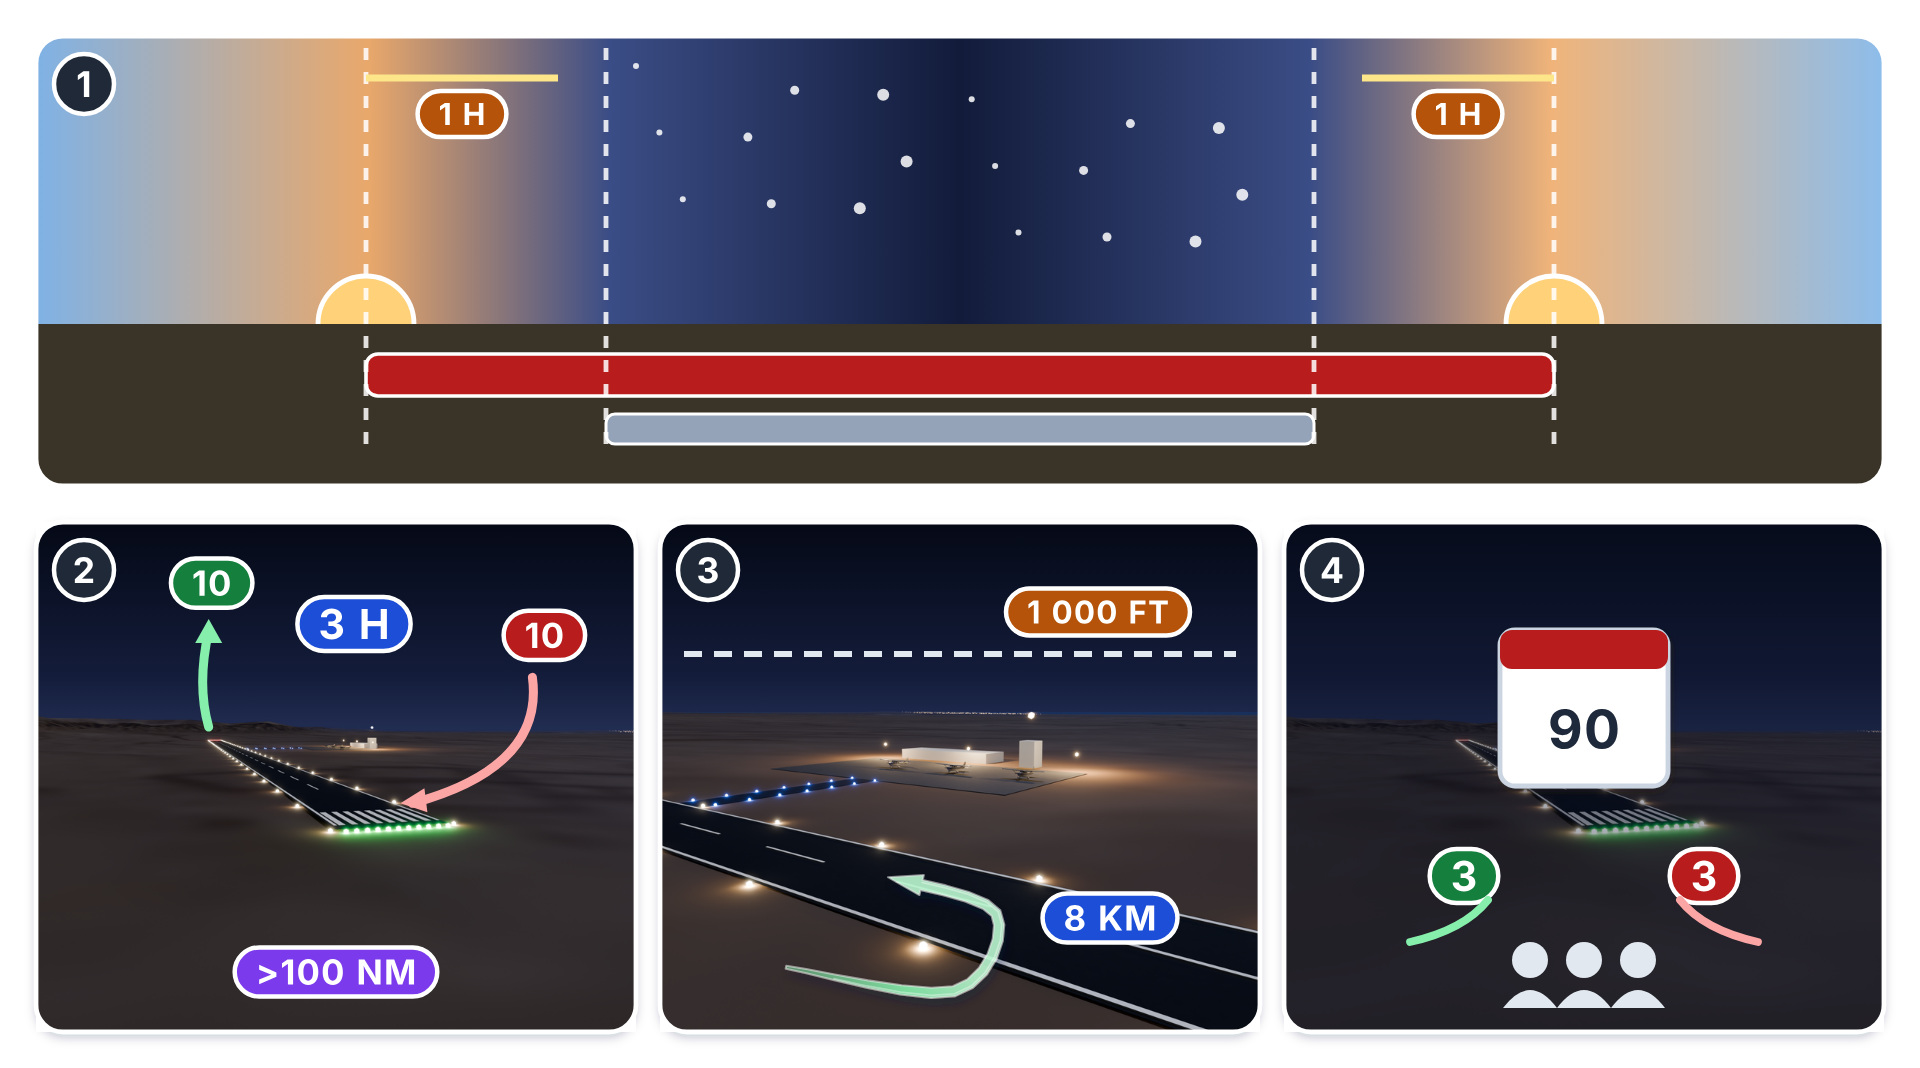
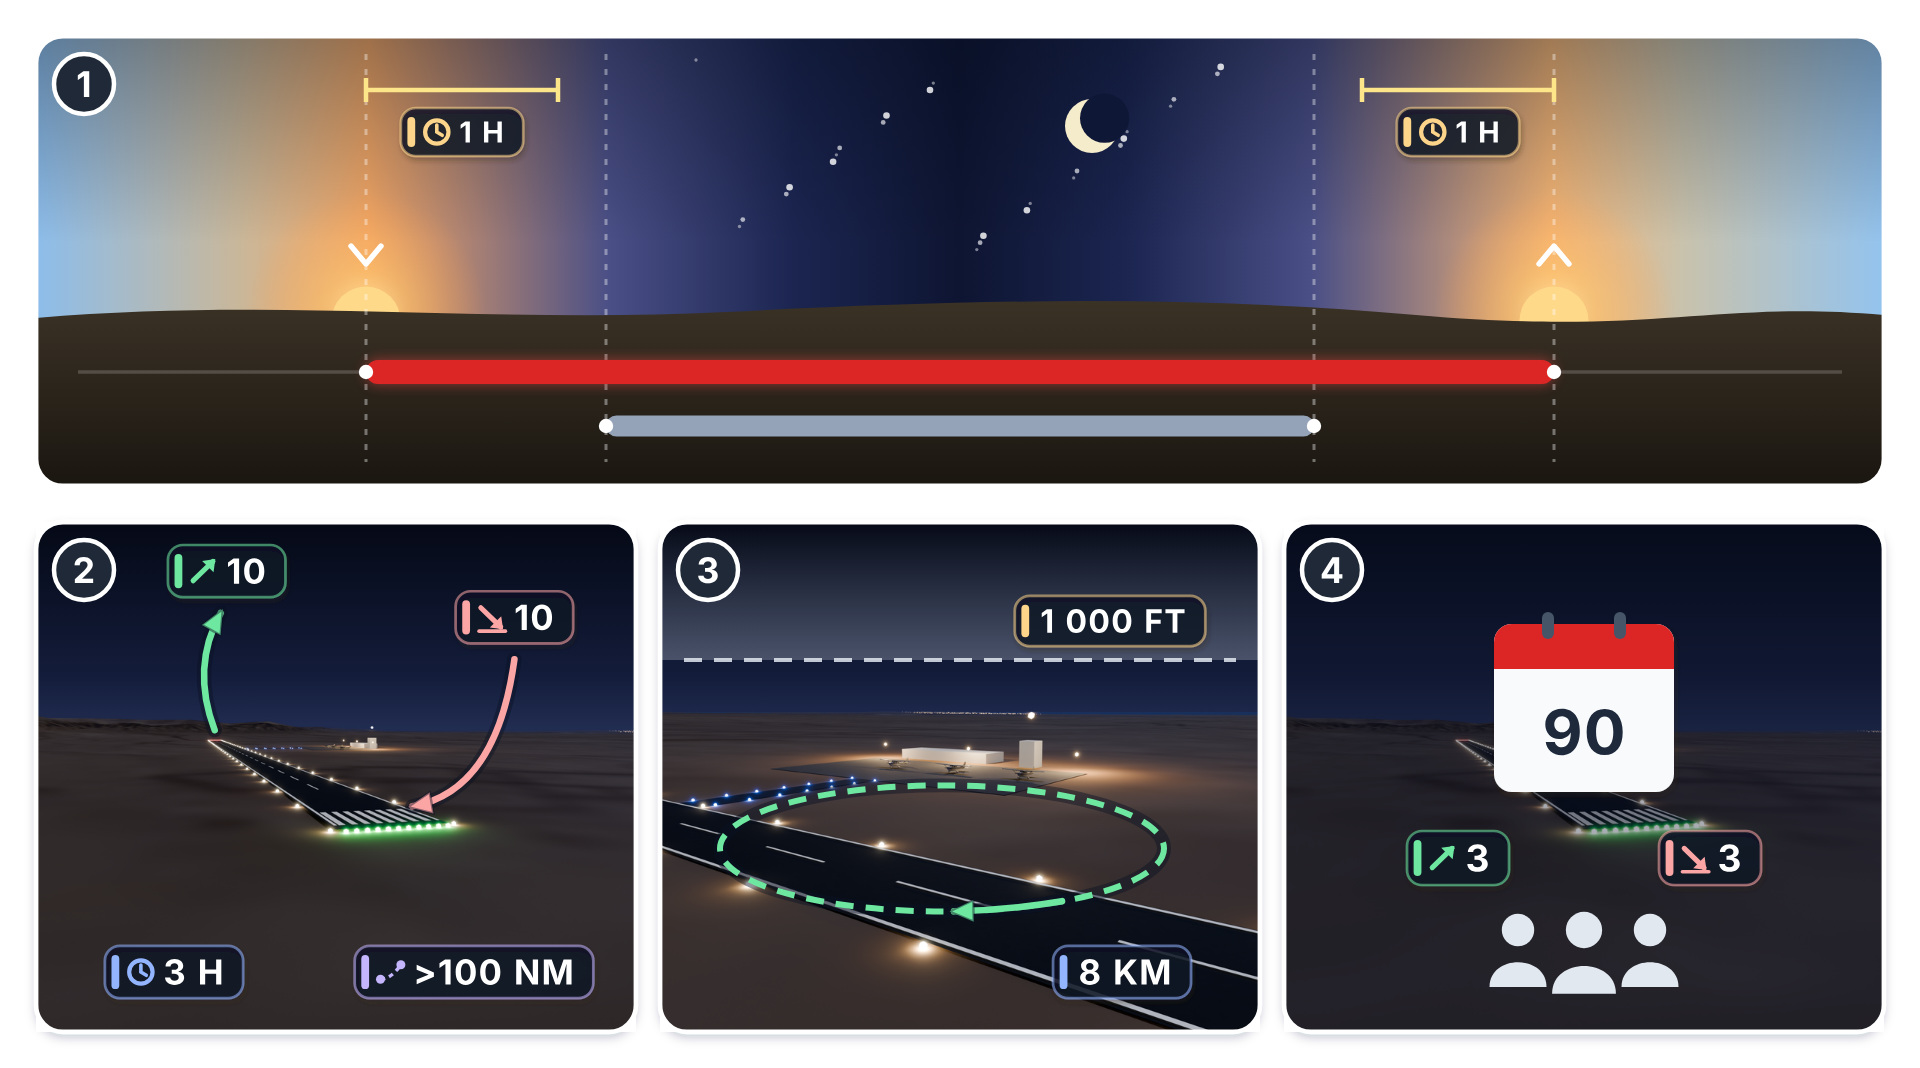
Plate 31-1: new marks (dark glass labels with signs, smooth paths with halos and true arrowheads) and a new day-night strip (the sun setting into dunes and rising, moon and stars, thin time bars, dimension lines for the hours)
Claude-Session: https://claude.ai/code/session_01GaKzbGvzg6oJZTLUkbk9TR

diff --git a/09_book_figures/handbook/figs/f_31_01_night_rule.py b/09_book_figures/handbook/figs/f_31_01_night_rule.py
@@ -26,9 +26,52 @@ def gwidth(s, height, spacing=0.4):
 
 
 def pill(cx, cy, text, fill, size=8.4):
-    w = gwidth(text, size) + 14.0
-    h = size + 8.0
-    return f'<rect x="{n(cx - w / 2)}" y="{n(cy - h / 2)}" width="{n(w)}" height="{n(h)}" rx="{n(h / 2)}" fill="{fill}" stroke="#FFFFFF" stroke-width="1.5"/>' + H.glyph_text(text, cx, cy, size, "#FFFFFF", spacing=0.4)
+    return chip(cx, cy, text, fill, size=size)
+
+
+def icon(kind, x, y, col):
+    """A small sign drawn in a chip, left of its text: up (a takeoff), down (a landing), clock, route."""
+    if kind == "up":
+        return (f'<path d="M{n(x - 3.6)} {n(y + 3.2)} L{n(x + 3.0)} {n(y - 3.2)}" stroke="{col}" stroke-width="1.7" stroke-linecap="round"/>'
+                f'<path d="M{n(x + 3.8)} {n(y - 4.0)} l-4.4 0.6 l3.8 3.8 Z" fill="{col}"/>')
+    if kind == "down":
+        return (f'<path d="M{n(x - 3.6)} {n(y - 3.2)} L{n(x + 3.0)} {n(y + 3.2)}" stroke="{col}" stroke-width="1.7" stroke-linecap="round"/>'
+                f'<path d="M{n(x + 3.8)} {n(y + 4.0)} l-4.4 -0.6 l3.8 -3.8 Z" fill="{col}"/><path d="M{n(x - 4.2)} {n(y + 4.6)} H{n(x + 4.6)}" stroke="{col}" stroke-width="1.2" stroke-linecap="round"/>')
+    if kind == "clock":
+        return (f'<circle cx="{n(x)}" cy="{n(y)}" r="3.9" fill="none" stroke="{col}" stroke-width="1.4"/>'
+                f'<path d="M{n(x)} {n(y - 2.3)} V{n(y)} L{n(x + 1.8)} {n(y + 1.1)}" fill="none" stroke="{col}" stroke-width="1.2" stroke-linecap="round"/>')
+    if kind == "route":
+        return (f'<circle cx="{n(x - 3.4)}" cy="{n(y + 2.4)}" r="1.5" fill="{col}"/><circle cx="{n(x + 3.4)}" cy="{n(y - 2.4)}" r="1.5" fill="{col}"/>'
+                f'<path d="M{n(x - 3.4)} {n(y + 2.4)} Q{n(x)} {n(y + 2.4)} {n(x + 3.4)} {n(y - 2.4)}" fill="none" stroke="{col}" stroke-width="1.1" stroke-dasharray="1.6 1.4"/>')
+    return ""
+
+
+def chip(cx, cy, text, accent, kind=None, size=7.8):
+    """A label of the figure: dark glass, a bar of the colour on its left, a small sign, white figures."""
+    tw = gwidth(text, size)
+    iw = 11.0 if kind else 0.0
+    w, h = tw + 15.0 + iw, size + 9.0
+    x0, y0 = cx - w / 2, cy - h / 2
+    tint = {"#1D4ED8": "#93B4FF", "#15803D": "#6EE7A0", "#B91C1C": "#FCA5A5", "#B45309": "#FCD48A", "#7C3AED": "#C4B5FD"}.get(accent, accent)
+    return (f'<rect x="{n(x0)}" y="{n(y0)}" width="{n(w)}" height="{n(h)}" rx="5" fill="#0B1224" fill-opacity="0.80" stroke="{tint}" stroke-opacity="0.55" stroke-width="0.9"{ds()}/>'
+            f'<rect x="{n(x0 + 2.2)}" y="{n(y0 + 3.0)}" width="2.6" height="{n(h - 6.0)}" rx="1.3" fill="{tint}"/>'
+            + (icon(kind, x0 + 12.0, cy, tint) if kind else "")
+            + H.glyph_text(text, x0 + 8.5 + iw + tw / 2, cy, size, "#FFFFFF", spacing=0.4))
+
+
+def flight(p0, c, p1, col, dash=False, width=2.2):
+    """A path in the air: a smooth curve from p0 to p1 bent towards c, a dark halo under it and an arrowhead along its end."""
+    d = f"M{n(p0[0])} {n(p0[1])} Q{n(c[0])} {n(c[1])} {n(p1[0])} {n(p1[1])}"
+    tx, ty = p1[0] - c[0], p1[1] - c[1]
+    L = math.hypot(tx, ty) or 1.0
+    ux, uy = tx / L, ty / L
+    s = 6.5
+    bx, by = p1[0] - ux * s, p1[1] - uy * s
+    head = f'M{n(p1[0] + ux * 1.5)} {n(p1[1] + uy * 1.5)} L{n(bx - uy * s * 0.55)} {n(by + ux * s * 0.55)} L{n(bx + uy * s * 0.55)} {n(by - ux * s * 0.55)} Z'
+    da = ' stroke-dasharray="5 4"' if dash else ""
+    return (f'<path d="{d}" fill="none" stroke="#0B1224" stroke-opacity="0.45" stroke-width="{n(width + 2.6)}" stroke-linecap="round"/>'
+            f'<path d="{d}" fill="none" stroke="{col}" stroke-width="{n(width)}" stroke-linecap="round"{da}/>'
+            f'<path d="{head}" fill="{col}" stroke="#0B1224" stroke-opacity="0.45" stroke-width="0.8"/>')
 
 
 def ds():
@@ -36,32 +79,55 @@ def ds():
 
 
 def timeline():
+    """Tile 1: from day through the night to day, as a horizon: the sun sets into the dunes and rises out of them, a crescent moon and stars between; under the
+    horizon the time bars (the period of section 91.171 in red, the GACAR's night in slate inside it); above it the hour after sunset and the hour before
+    sunrise as dimension lines."""
     x, y, w, h = 12.0, 12.0, 616.0, 150.0
     uid = f"{U}tl"
     ss, ct, mt, sr = x + 110, x + 190, x + w - 190, x + w - 110   # sunset, end of civil twilight, start of morning twilight, sunrise
-    sky = (f'<defs><linearGradient id="{uid}g" x1="0" y1="0" x2="1" y2="0">'
-           f'<stop offset="0" stop-color="#7FB2E6"/><stop offset="{n((ss - x) / w)}" stop-color="#E9A86B"/><stop offset="{n((ct - x) / w)}" stop-color="#3B4D86"/>'
-           f'<stop offset="0.5" stop-color="#121B3A"/><stop offset="{n((mt - x) / w)}" stop-color="#3B4D86"/><stop offset="{n((sr - x) / w)}" stop-color="#F0B47A"/><stop offset="1" stop-color="#8DBDEB"/></linearGradient>'
-           f'<clipPath id="{uid}c"><rect x="{n(x)}" y="{n(y)}" width="{n(w)}" height="{n(h)}" rx="9"/></clipPath>'
-           f'<filter id="{U}ds" x="-30%" y="-30%" width="160%" height="170%"><feDropShadow dx="0" dy="1.2" stdDeviation="1.3" flood-color="#1B2638" flood-opacity="0.3"/></filter></defs>')
-    gy = y + 96
-    body = f'<rect x="{n(x)}" y="{n(y)}" width="{n(w)}" height="{n(h)}" fill="url(#{uid}g)"/>'
-    body += f'<rect x="{n(x)}" y="{n(gy)}" width="{n(w)}" height="{n(y + h - gy)}" fill="#3A3428" fill-opacity="0.82"/>'
-    for k in range(18):                                   # stars in the dark middle
-        sx = ct + 10 + (k * 37.3) % (mt - ct - 20)
-        sy = y + 10 + (k * 23.7) % 60
-        body += f'<circle cx="{n(sx)}" cy="{n(sy)}" r="{n(1.0 + (k % 3) * 0.5)}" fill="#FFFFFF" fill-opacity="0.85"/>'
-    for cx in (ss, sr):                                   # the sun on the horizon
-        body += f'<circle cx="{n(cx)}" cy="{n(gy)}" r="16" fill="#FFD27A" stroke="#FFFFFF" stroke-width="1.6"/>'
-    body += f'<rect x="{n(x)}" y="{n(gy)}" width="{n(w)}" height="{n(y + h - gy)}" fill="#3A3428"/>'
-    # the bands
-    band = (f'<rect x="{n(ss)}" y="{n(gy + 10)}" width="{n(sr - ss)}" height="14" rx="4" fill="{RED}" stroke="#FFFFFF" stroke-width="1.2"/>'
-            f'<rect x="{n(ct)}" y="{n(gy + 30)}" width="{n(mt - ct)}" height="10" rx="3" fill="#94A3B8" stroke="#FFFFFF" stroke-width="1"/>'
-            + "".join(f'<line x1="{n(xx)}" y1="{n(y + 4)}" x2="{n(xx)}" y2="{n(gy + 44)}" stroke="#FFFFFF" stroke-width="1.6" stroke-dasharray="4 4" stroke-opacity="0.85"/>' for xx in (ss, ct, mt, sr)))
-    # the passenger window, 1 H after sunset to 1 H before sunrise
-    p0, p1 = ss + 64, sr - 64
-    band += f'<path d="M{n(ss)} {n(y + 14)} H{n(p0)} M{n(sr)} {n(y + 14)} H{n(p1)}" stroke="#FDE68A" stroke-width="2.4"/>' + pill((ss + p0) / 2, y + 26, "1 H", AMBER, size=7.4) + pill((sr + p1) / 2, y + 26, "1 H", AMBER, size=7.4)
-    return sky + f'<g clip-path="url(#{uid}c)">' + body + band + f'</g><rect x="{n(x)}" y="{n(y)}" width="{n(w)}" height="{n(h)}" rx="9" fill="none" stroke="#FFFFFF" stroke-width="1.6"/>'
+    f = lambda xx: n((xx - x) / w)
+    defs = (f'<defs><linearGradient id="{uid}g" x1="0" y1="0" x2="1" y2="0">'
+            f'<stop offset="0" stop-color="#8CBDEB"/><stop offset="{f(ss - 40)}" stop-color="#C9B79A"/><stop offset="{f(ss)}" stop-color="#F2A766"/>'
+            f'<stop offset="{f(ct)}" stop-color="#4A4F86"/><stop offset="{f(ct + 60)}" stop-color="#1B2550"/><stop offset="0.5" stop-color="#0E1532"/>'
+            f'<stop offset="{f(mt - 60)}" stop-color="#1B2550"/><stop offset="{f(mt)}" stop-color="#4A4F86"/><stop offset="{f(sr)}" stop-color="#F5B676"/>'
+            f'<stop offset="{f(sr + 40)}" stop-color="#C9C2AC"/><stop offset="1" stop-color="#93C3EE"/></linearGradient>'
+            f'<linearGradient id="{uid}v" x1="0" y1="0" x2="0" y2="1"><stop offset="0" stop-color="#000814" stop-opacity="0.35"/><stop offset="0.75" stop-color="#000814" stop-opacity="0"/></linearGradient>'
+            f'<linearGradient id="{uid}d" x1="0" y1="0" x2="0" y2="1"><stop offset="0" stop-color="#3B3226"/><stop offset="1" stop-color="#1A1610"/></linearGradient>'
+            f'<radialGradient id="{uid}s"><stop offset="0" stop-color="#FFE7A8" stop-opacity="0.95"/><stop offset="0.35" stop-color="#FFC56B" stop-opacity="0.55"/><stop offset="1" stop-color="#FF9E4A" stop-opacity="0"/></radialGradient>'
+            f'<clipPath id="{uid}c"><rect x="{n(x)}" y="{n(y)}" width="{n(w)}" height="{n(h)}" rx="9"/></clipPath>'
+            f'<filter id="{U}ds" x="-30%" y="-30%" width="160%" height="170%"><feDropShadow dx="0" dy="1.0" stdDeviation="1.1" flood-color="#000814" flood-opacity="0.45"/></filter>'
+            f'<filter id="{uid}gl" x="-20%" y="-200%" width="140%" height="500%"><feGaussianBlur stdDeviation="2.2"/></filter></defs>')
+    gy = y + 92
+    body = f'<rect x="{n(x)}" y="{n(y)}" width="{n(w)}" height="{n(h)}" fill="url(#{uid}g)"/><rect x="{n(x)}" y="{n(y)}" width="{n(w)}" height="{n(gy - y)}" fill="url(#{uid}v)"/>'
+    for k in range(26):                                   # stars: small, of several sizes, only where the sky is dark
+        sx = ct + 30 + (k * 47.9) % (mt - ct - 60)
+        sy = y + 8 + (k * 29.3) % 64
+        r = (0.55, 0.8, 1.1)[k % 3]
+        body += f'<circle cx="{n(sx)}" cy="{n(sy)}" r="{n(r)}" fill="#FFFFFF" fill-opacity="{n(0.45 + 0.18 * (k % 3))}"/>'
+    mx, my = x + w / 2 + 44, y + 30                       # a crescent moon
+    body += (f'<circle cx="{n(mx)}" cy="{n(my)}" r="9" fill="#F4ECCB"/><circle cx="{n(mx + 4.2)}" cy="{n(my - 2.6)}" r="8.2" fill="#0F1736"/>')
+    for cx_ in (ss, sr):                                  # the sun on the horizon, in its glow
+        body += f'<circle cx="{n(cx_)}" cy="{n(gy)}" r="40" fill="url(#{uid}s)"/><circle cx="{n(cx_)}" cy="{n(gy + 3)}" r="11.5" fill="#FFD98A"/>'
+    dune = (f'M{n(x)} {n(gy + 2)} C{n(x + 80)} {n(gy - 5)} {n(x + 150)} {n(gy + 4)} {n(x + 230)} {n(gy)} S{n(x + 380)} {n(gy - 6)} {n(x + 460)} {n(gy + 1)} '
+            f'S{n(x + 560)} {n(gy - 4)} {n(x + w)} {n(gy + 1)} V{n(y + h)} H{n(x)} Z')
+    body += f'<path d="{dune}" fill="url(#{uid}d)"/>'
+    for cx_, up in ((ss, False), (sr, True)):             # a chevron over each sun: setting, rising
+        a, b = (gy - 22, gy - 16) if up else (gy - 16, gy - 22)
+        body += f'<path d="M{n(cx_ - 5)} {n(b)} L{n(cx_)} {n(a)} L{n(cx_ + 5)} {n(b)}" fill="none" stroke="#FFFFFF" stroke-width="1.8" stroke-linecap="round" stroke-linejoin="round"/>'
+    guides = "".join(f'<line x1="{n(xx)}" y1="{n(y + 6)}" x2="{n(xx)}" y2="{n(y + h - 8)}" stroke="#FFFFFF" stroke-opacity="0.38" stroke-width="1" stroke-dasharray="2 3"/>' for xx in (ss, ct, mt, sr))
+    ty1, ty2 = gy + 20, gy + 38                           # the time bars, under the horizon
+    bars = (f'<line x1="{n(x + 14)}" y1="{n(ty1)}" x2="{n(x + w - 14)}" y2="{n(ty1)}" stroke="#FFFFFF" stroke-opacity="0.18" stroke-width="1.2"/>'
+            f'<rect x="{n(ss)}" y="{n(ty1 - 4)}" width="{n(sr - ss)}" height="8" rx="4" fill="#EF4444" filter="url(#{uid}gl)" opacity="0.55"/>'
+            f'<rect x="{n(ss)}" y="{n(ty1 - 4)}" width="{n(sr - ss)}" height="8" rx="4" fill="#DC2626"/>'
+            f'<rect x="{n(ct)}" y="{n(ty2 - 3.5)}" width="{n(mt - ct)}" height="7" rx="3.5" fill="#94A3B8"/>'
+            + "".join(f'<circle cx="{n(xx)}" cy="{n(yy)}" r="2.4" fill="#FFFFFF"/>' for xx, yy in ((ss, ty1), (sr, ty1), (ct, ty2), (mt, ty2))))
+    p0, p1 = ss + 64, sr - 64                             # the passenger window, 1 H after sunset to 1 H before sunrise
+    dy = y + 18
+    def dimline(a, b):
+        return (f'<line x1="{n(a)}" y1="{n(dy)}" x2="{n(b)}" y2="{n(dy)}" stroke="#FDE68A" stroke-width="1.5"/>'
+                + "".join(f'<line x1="{n(xx)}" y1="{n(dy - 4)}" x2="{n(xx)}" y2="{n(dy + 4)}" stroke="#FDE68A" stroke-width="1.5"/>' for xx in (a, b)))
+    dims = dimline(ss, p0) + dimline(p1, sr) + chip((ss + p0) / 2, dy + 14, "1 H", AMBER, "clock", size=7.0) + chip((sr + p1) / 2, dy + 14, "1 H", AMBER, "clock", size=7.0)
+    return defs + f'<g clip-path="url(#{uid}c)">' + body + guides + bars + dims + f'</g><rect x="{n(x)}" y="{n(y)}" width="{n(w)}" height="{n(h)}" rx="9" fill="none" stroke="#FFFFFF" stroke-width="1.6"/>'
 
 
 TX = (12.0, 220.0, 428.0)
@@ -103,12 +169,10 @@ def course():
     under, img, frame = render_tile(f"{U}t2", x, "night-31-01-runway")
     a = at("night-31-01-runway", x)
     (tx, ty), (ex, ey) = a("thr"), a("end")
-    o = pill(x + TW / 2 + 6, TY + 34, "3 H", BLUE, size=10)
-    o += (f'<path d="M{n(ex - 2)} {n(ey - 4)} q-4 -14 0 -32" fill="none" stroke="#86EFAC" stroke-width="3" stroke-linecap="round"/>'      # the takeoffs: off the far end, climbing away
-          f'<path d="M{n(ex - 2)} {n(ey - 40)} l-4.5 8 l9 0 Z" fill="#86EFAC"/>' + pill(ex - 1, ey - 52, "10", GREEN))
-    o += (f'<path d="M{n(tx + 46)} {n(ty - 46)} q4 30 -40 42" fill="none" stroke="#FCA5A5" stroke-width="3" stroke-linecap="round"/>'        # the landings: down to the threshold
-          f'<path d="M{n(tx + 2)} {n(ty - 4)} l8 -5 l1 8 Z" fill="#FCA5A5"/>' + pill(tx + 50, ty - 60, "10", RED))
-    o += pill(x + TW / 2, TY + 150, ">100 NM", VIOLET)
+    o = chip(x + 46, TY + 150, "3 H", BLUE, "clock", size=8.4)
+    o += flight((ex, ey - 3), (ex - 8, ey - 24), (ex + 2, ey - 42), "#6EE7A0") + chip(ex + 4, ey - 56, "10", GREEN, "up", size=8.4)     # the takeoffs: off the far end, climbing away
+    o += flight((tx + 40, ty - 52), (tx + 34, ty - 8), (tx + 6, ty - 3), "#FCA5A5") + chip(tx + 40, ty - 66, "10", RED, "down", size=8.4)  # the landings: down to the threshold
+    o += chip(x + TW - 54, TY + 150, ">100 NM", VIOLET, "route", size=8.4)
     return [under, img, o + frame]
 
 
@@ -117,10 +181,16 @@ def exercise():
     x = TX[1]
     under, img, frame = render_tile(f"{U}t3", x, "night-31-01-tower")
     mx, my = x + TW * 0.36, TY + TH * 0.72                  # on the runway in the front of the view
-    cl = TY + 44                                           # the ceiling
-    o = f'<line x1="{n(x + 8)}" y1="{n(cl)}" x2="{n(x + TW - 8)}" y2="{n(cl)}" stroke="#E2E8F0" stroke-width="2" stroke-dasharray="6 4"/>' + pill(x + TW - 54, cl - 14, "1 000 FT", AMBER, size=7.6)
-    o += pill(x + TW - 50, TY + 132, "8 KM", BLUE)
-    o += S.ribbon(f"{U}lp", [(mx - 30, my + 26), (mx + 26, my + 34), (mx + 40, my + 8), (mx + 4, my - 4)], 3.4, "#86EFAC", "#BBF7D0", opacity=0.9, head=2.0, tail=0.3, per=6)
+    cl = TY + 46                                           # the ceiling: a layer of cloud above, its base dashed
+    o = (f'<defs><linearGradient id="{U}cl" x1="0" y1="0" x2="0" y2="1"><stop offset="0" stop-color="#CBD5E1" stop-opacity="0.0"/><stop offset="1" stop-color="#CBD5E1" stop-opacity="0.30"/></linearGradient></defs>'
+         f'<rect x="{n(x)}" y="{n(TY)}" width="{n(TW)}" height="{n(cl - TY)}" fill="url(#{U}cl)"/>'
+         f'<line x1="{n(x + 8)}" y1="{n(cl)}" x2="{n(x + TW - 8)}" y2="{n(cl)}" stroke="#E2E8F0" stroke-opacity="0.85" stroke-width="1.4" stroke-dasharray="6 4"/>')
+    o += chip(x + TW - 50, cl - 13, "1 000 FT", AMBER, size=7.8)
+    cx_, cy_ = x + TW * 0.47, TY + TH * 0.64              # a local flight: round the aerodrome and back to it, dashed
+    o += (f'<ellipse cx="{n(cx_)}" cy="{n(cy_)}" rx="74" ry="21" fill="none" stroke="#0B1224" stroke-opacity="0.45" stroke-width="4.6"/>'
+          f'<ellipse cx="{n(cx_)}" cy="{n(cy_)}" rx="74" ry="21" fill="none" stroke="#6EE7A0" stroke-width="2" stroke-dasharray="6 4"/>')
+    o += flight((cx_ + 40, cy_ + 17.6), (cx_ + 22, cy_ + 20.6), (cx_ + 4, cy_ + 21), "#6EE7A0")
+    o += chip(x + TW - 46, TY + 150, "8 KM", BLUE, size=8.4)
     return [under, img, o + frame]
 
 
@@ -129,14 +199,18 @@ def passengers():
     under, img, frame = render_tile(f"{U}t4", x, "night-31-01-runway")
     o = f'<rect x="{n(x)}" y="{n(TY)}" width="{n(TW)}" height="{n(TH)}" fill="#0B1226" fill-opacity="0.35"/>'      # the picture dimmed, under the calendar and the passengers
     cx = x + TW / 2
-    cal_x, cal_y = cx - 28, TY + 36                        # a calendar of 90 days
-    o += (f'<rect x="{n(cal_x)}" y="{n(cal_y)}" width="56" height="52" rx="5" fill="#FFFFFF" stroke="#CBD5E1" stroke-width="1.6"{ds()}/><rect x="{n(cal_x)}" y="{n(cal_y)}" width="56" height="13" rx="4" fill="{RED}"/>'
-          + H.glyph_text("90", cx, cal_y + 33, 13, INK, spacing=0.4))
-    o += pill(cx - 40, TY + 118, "3", GREEN, size=10) + pill(cx + 40, TY + 118, "3", RED, size=10)
-    o += f'<path d="M{n(cx - 58)} {n(TY + 140)} q18 -4 26 -14" fill="none" stroke="#86EFAC" stroke-width="2.6" stroke-linecap="round"/><path d="M{n(cx + 32)} {n(TY + 126)} q8 10 26 14" fill="none" stroke="#FCA5A5" stroke-width="2.6" stroke-linecap="round"/>'
-    for k in range(3):                                     # three passengers' heads
-        hx = cx - 18 + k * 18
-        o += f'<circle cx="{n(hx)}" cy="{n(TY + 146)}" r="6" fill="#E2E8F0"/><path d="M{n(hx - 9)} {n(TY + 162)} q9 -12 18 0 Z" fill="#E2E8F0"/>'
+    cw, chh = 60.0, 56.0                                    # a calendar of 90 days: a card with its binding rings, a red head, the number
+    cal_x, cal_y = cx - cw / 2, TY + 34
+    o += (f'<rect x="{n(cal_x)}" y="{n(cal_y)}" width="{n(cw)}" height="{n(chh)}" rx="6" fill="#F8FAFC"{ds()}/>'
+          f'<path d="M{n(cal_x)} {n(cal_y + 6)} a6 6 0 0 1 6 -6 H{n(cal_x + cw - 6)} a6 6 0 0 1 6 6 V{n(cal_y + 15)} H{n(cal_x)} Z" fill="#DC2626"/>'
+          + "".join(f'<rect x="{n(cal_x + cw * t - 2)}" y="{n(cal_y - 4)}" width="4" height="9" rx="2" fill="#475569"/>' for t in (0.3, 0.7))
+          + H.glyph_text("90", cx, cal_y + 36, 15, "#1E293B", spacing=0.4))
+    o += chip(cx - 42, TY + 112, "3", GREEN, "up", size=9.0) + chip(cx + 42, TY + 112, "3", RED, "down", size=9.0)
+    for k in range(3):                                     # three passengers: a head and shoulders each, the middle one a little nearer
+        hx, s_ = cx - 22 + k * 22, (1.0, 1.12, 1.0)[k]
+        top = TY + 136
+        o += (f'<circle cx="{n(hx)}" cy="{n(top)}" r="{n(5.4 * s_)}" fill="#E2E8F0"/>'
+              f'<path d="M{n(hx - 9.5 * s_)} {n(top + 19 * s_)} C{n(hx - 9.5 * s_)} {n(top + 8 * s_)} {n(hx + 9.5 * s_)} {n(top + 8 * s_)} {n(hx + 9.5 * s_)} {n(top + 19 * s_)} Z" fill="#E2E8F0"/>')
     return [under, img, o + frame]
 
 
